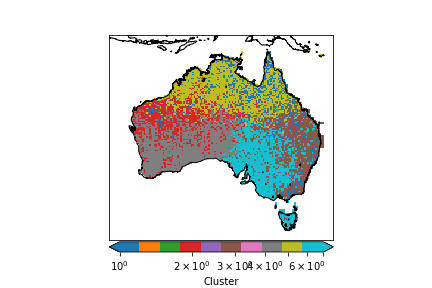
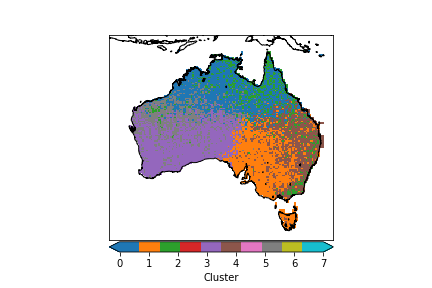
LAI now plotting clustered map. LAI silhoutte and elbow plots added

diff --git a/LAI/LAI Clustering.py b/LAI/LAI Clustering.py
@@ -15,6 +15,10 @@ import netCDF4
 
 ## Read in data
 
+# Month as number i.e. January = 1
+
+month = 1
+
 ds05 = Dataset("Data/MODIS.LAIv.V5.generic.025x025.2005.nc")
 ds06 = Dataset("Data/MODIS.LAIv.V5.generic.025x025.2006.nc")
 ds07 = Dataset("Data/MODIS.LAIv.V5.generic.025x025.2007.nc")
@@ -28,42 +32,24 @@ lats = ds05.variables['lat'][:]
 time = ds10.variables['time'][:]
 LAI = ds05.variables['MODIS'][:]
 
-print(ds)
+ds05 = LAI[month-1,:,:]
+LAI = ds06.variables['MODIS'][:]
+ds06 = LAI[month-1,:,:]
+LAI = ds07.variables['MODIS'][:]
+ds07 = LAI[month-1,:,:]
+LAI = ds08.variables['MODIS'][:]
+ds08 = LAI[month-1,:,:]
+LAI = ds09.variables['MODIS'][:]
+ds09 = LAI[month-1,:,:]
+LAI = ds10.variables['MODIS'][:]
+ds10 = LAI[month-1,:,:]
+LAI = ds11.variables['MODIS'][:]
+ds11 = LAI[month-1,:,:]
 
-ds05.variables['MODIS'][:] = LAI[:11,:,:]
-
-print(ds05)
-
-print(LAI2[0,259,1220])
-
-meanCYA_df = df['CYA'].groupby([df['Lat'], df['Lon']]).mean().unstack()
-meanCOC_df = df['COC'].groupby([df['Lat'], df['Lon']]).mean().unstack()
-meanDIA_df = df['DIA'].groupby([df['Lat'], df['Lon']]).mean().unstack()
-
-lon = np.array(df.drop_duplicates(subset='Lon')['Lon'])
-lat = np.array(df.drop_duplicates(subset='Lat')['Lat'])
-data = meanCYA_df
-
-
-# month avg 
-plt.subplot(311)
-HCHO_mean=np.nanmean(HCHO,axis=0)
-rs.plot_map(HCHO_mean,lats,lons,linear=False,
-            vmin=1e14,vmax=1e16,cbarlabel='molec/cm2')
-plt.title('HCHO averaged over a month')
-
-for i in range(4):
-    plt.subplot(323+i)
-    rs.plot_map(HCHO[i,:,:],lats,lons,linear=False,
-            vmin=1e14,vmax=1e16,cbarlabel='molec/cm2')
-    plt.title(data['time'][i].strftime('OMI hcho %Y %m %d'))
-
-plt.savefig('test_plot2.png')
-plt.close()
-print('test_plot2.png saved')
-
-HCHO_std = np.nanstd(HCHO,axis=0)
-
+LAI_mean = np.stack((ds05,ds06,ds07,ds08,ds09,ds10, ds11),axis=0)
+LAI_std = np.nanstd(LAI_mean,axis=0)
+LAI_mean=np.nanmean(LAI_mean,axis=0)
+ 
 
 ###
 ### Limit HCHO_mean to just Australian region data ~ S W N E ~ [-45, 108.75, -10, 156.25]
@@ -80,14 +66,14 @@ for i in range (len(lons)):
     if lons[i] <= 156.25:
         lons_max = i
 
-HCHO_mean_Aus = HCHO_mean[lats_min:lats_max,lons_min:lons_max]
+LAI_mean_Aus = LAI_mean[lats_min:lats_max,lons_min:lons_max]
 Aus_lats = lats[lats_min:lats_max]
 Aus_lons = lons[lons_min:lons_max]
-HCHO_std_Aus = HCHO_std[lats_min:lats_max,lons_min:lons_max]
+LAI_std_Aus = LAI_std[lats_min:lats_max,lons_min:lons_max]
 
 
-Aus_reshape = np.reshape(HCHO_mean_Aus,(len(HCHO_mean_Aus)*len(HCHO_mean_Aus[0])))
-std_reshape = np.reshape(HCHO_std_Aus,(len(HCHO_std_Aus)*len(HCHO_std_Aus[0])))
+Aus_reshape = np.reshape(LAI_mean_Aus,(len(LAI_mean_Aus)*len(LAI_mean_Aus[0])))
+std_reshape = np.reshape(LAI_std_Aus,(len(LAI_std_Aus)*len(LAI_std_Aus[0])))
 Aus_lats_reshape = np.repeat(Aus_lats, len(Aus_lons))
 Aus_lons_reshape = np.tile(Aus_lons, len(Aus_lats))
 X = np.full((len(Aus_reshape),4), np.nan) 
@@ -128,7 +114,7 @@ for i in reversed(range(len(result))):
 
 no_ocean_lons = np.unique(X[:,2])
 no_ocean_lats = np.unique(X[:,3])
-no_ocean_HCHO = np.full((len(no_ocean_lats),len(no_ocean_lons)), np.nan)
+no_ocean_LAI = np.full((len(no_ocean_lats),len(no_ocean_lons)), np.nan)
 no_ocean_std = np.full((len(no_ocean_lats),len(no_ocean_lons)), np.nan)
 
 for i in range(len(X)):
@@ -136,11 +122,11 @@ for i in range(len(X)):
     value_lat = X[i,3]
     pos_lon = np.where( no_ocean_lons==value_lon )
     pos_lat = np.where( no_ocean_lats==value_lat )
-    no_ocean_HCHO[pos_lat,pos_lon] = X[i,0]
+    no_ocean_LAI[pos_lat,pos_lon] = X[i,0]
     no_ocean_std[pos_lat,pos_lon] = X[i,1]
     
-rs.plot_map(no_ocean_HCHO,no_ocean_lats,no_ocean_lons,linear=False,
-            vmin=1e14,vmax=1e16,cbarlabel='molec/cm2')
+rs.plot_map(LAI_mean,lats,lons,linear=True,
+            vmin=0,vmax=2,cbarlabel='Cluster', cmap="viridis")
 
 plt.savefig('test_plot3.png')
 plt.close()
@@ -163,7 +149,7 @@ print('test_plot3.png saved')
 #     ax.view_init(90, angle)
 # =============================================================================
 
-Aus_reshape = np.reshape(no_ocean_HCHO,(len(no_ocean_HCHO)*len(no_ocean_HCHO[0])))
+Aus_reshape = np.reshape(no_ocean_LAI,(len(no_ocean_LAI)*len(no_ocean_LAI[0])))
 std_reshape = np.reshape(no_ocean_std,(len(no_ocean_std)*len(no_ocean_std[0])))
 Aus_lats_reshape = np.repeat(no_ocean_lats, len(no_ocean_lons))
 Aus_lons_reshape = np.tile(no_ocean_lons, len(no_ocean_lats))
@@ -189,9 +175,21 @@ for i in reversed(range(len(X))):
     if np.isfinite(to_delete[i]):
         X = np.delete(X,to_delete[i],0)
 
+
+## Normalise data
+
+from sklearn import preprocessing
+
+X = preprocessing.RobustScaler().fit_transform(X)
+
+
+## Clustering
+
 from sklearn.cluster import KMeans
 
-kmeans = KMeans(n_clusters=6)
+n_clusters = 3
+
+kmeans = KMeans(n_clusters=n_clusters)
 kmeans = kmeans.fit(X)
 labels = kmeans.predict(X)
 C = kmeans.cluster_centers_
@@ -208,18 +206,18 @@ for i in range(len(to_delete)):
     if np.isfinite(to_delete[i]):
         L = np.insert(L,to_delete[i].astype(int),np.nan)
 L_reshape = np.reshape(L,(len(no_ocean_lats),len(no_ocean_lons)))
-L_reshape = L_reshape+1           
+         
 
-rs.plot_map(L_reshape,no_ocean_lats,no_ocean_lons,linear=False,
-            vmin=1,vmax=7,cbarlabel='Cluster', cmap="tab10")
+rs.plot_map(L_reshape,no_ocean_lats,no_ocean_lons,linear=True,
+            vmin=0,vmax=n_clusters,cbarlabel='Cluster', cmap="tab10")
 plt.savefig('test_plot4.png')
 plt.close()
 print('test_plot4.png saved')
 
 
-
-######## Plot Elbow Curve
 # =============================================================================
+# 
+# ######## Plot Elbow Curve
 # 
 # from scipy.spatial.distance import cdist
 # 
@@ -247,9 +245,9 @@ print('test_plot4.png saved')
 # plt.show()
 # =============================================================================
 
-
-##### Silhouette Method
 # =============================================================================
+# 
+# ##### Silhouette Method
 # 
 # from sklearn.metrics import silhouette_samples, silhouette_score
 # import matplotlib.cm as cm
@@ -318,9 +316,22 @@ print('test_plot4.png saved')
 #     ax1.set_xticks([-0.1, 0, 0.2, 0.4, 0.6, 0.8, 1])
 # 
 #     # 2nd Plot showing the actual clusters formed
-#     colors = cm.spectral(cluster_labels.astype(float) / n_clusters)
-#     ax2.scatter(X[:, 0], X[:, 1], marker='.', s=30, lw=0, alpha=0.7,
-#                 c=colors, edgecolor='k')
+#     
+#     kmeans = KMeans(n_clusters=n_clusters)
+#     kmeans = kmeans.fit(X)
+#     labels = kmeans.predict(X)
+#     C = kmeans.cluster_centers_
+#     L = kmeans.labels_
+#                
+#     L = np.array(L, dtype=float)
+#     for i in range(len(to_delete)):
+#         if np.isfinite(to_delete[i]):
+#             L = np.insert(L,to_delete[i].astype(int),np.nan)
+#     L_reshape = np.reshape(L,(len(no_ocean_lats),len(no_ocean_lons)))
+# 
+# 
+#     rs.plot_map(L_reshape,no_ocean_lats,no_ocean_lons,linear=True,
+#                 vmin=0,vmax=n_clusters,cbarlabel='Cluster', cmap="tab10")
 # 
 #     # Labeling the clusters
 #     centers = clusterer.cluster_centers_

diff --git a/PFT/PFT Clustering.py b/PFT/PFT Clustering.py
@@ -263,10 +263,10 @@ for i in range(len(W)):
     pos_lat = np.where( W_lats==value_lat )
     W_data[pos_lat,pos_lon] = W[i,2]
 
-W_data = W_data + 1
 
-rs.plot_map(W_data,W_lats,W_lons,linear=False,
-            vmin=1,vmax=17,cbarlabel='molec/cm2',cmap="tab20")
+
+rs.plot_map(W_data,W_lats,W_lons,linear=True,
+            vmin=0,vmax=1,cbarlabel='molec/cm2',cmap="viridis")
 
 plt.savefig('test_plot3.png')
 plt.close()
@@ -278,9 +278,9 @@ W[:,1] = d[:,17]
 
 from sklearn.cluster import KMeans
 
-kmeans = KMeans(n_clusters=6)
-kmeans = kmeans.fit(W)
-labels = kmeans.predict(W)
+kmeans = KMeans(n_clusters=5)
+kmeans = kmeans.fit(X)
+labels = kmeans.predict(X)
 C = kmeans.cluster_centers_
 L = kmeans.labels_
 # =============================================================================
@@ -299,8 +299,8 @@ L_reshape = L_reshape+1
 
 
 
-rs.plot_map(L_reshape,no_ocean_lats,no_ocean_lons,linear=False,
-            vmin=1,vmax=7,cbarlabel='Cluster', cmap="tab10")
+rs.plot_map(L_reshape,no_ocean_lats,no_ocean_lons,linear=True,
+            vmin=0,vmax=5,cbarlabel='Cluster', cmap="tab10")
 plt.savefig('test_plot4.png')
 plt.close()
 print('test_plot4.png saved')

diff --git a/OMI_HCHO/HCHO Clustering.py b/OMI_HCHO/HCHO Clustering.py
@@ -301,10 +301,10 @@ for i in range(len(to_delete)):
     if np.isfinite(to_delete[i]):
         L = np.insert(L,to_delete[i].astype(int),np.nan)
 L_reshape = np.reshape(L,(len(no_ocean_lats),len(no_ocean_lons)))
-L_reshape = L_reshape+1           
+      
 
-rs.plot_map(L_reshape,no_ocean_lats,no_ocean_lons,linear=False,
-            vmin=1,vmax=7,cbarlabel='Cluster', cmap="tab10")
+rs.plot_map(L_reshape,no_ocean_lats,no_ocean_lons,linear=True,
+            vmin=0,vmax=7,cbarlabel='Cluster', cmap="tab10")
 plt.savefig('test_plot4.png')
 plt.close()
 print('test_plot4.png saved')
